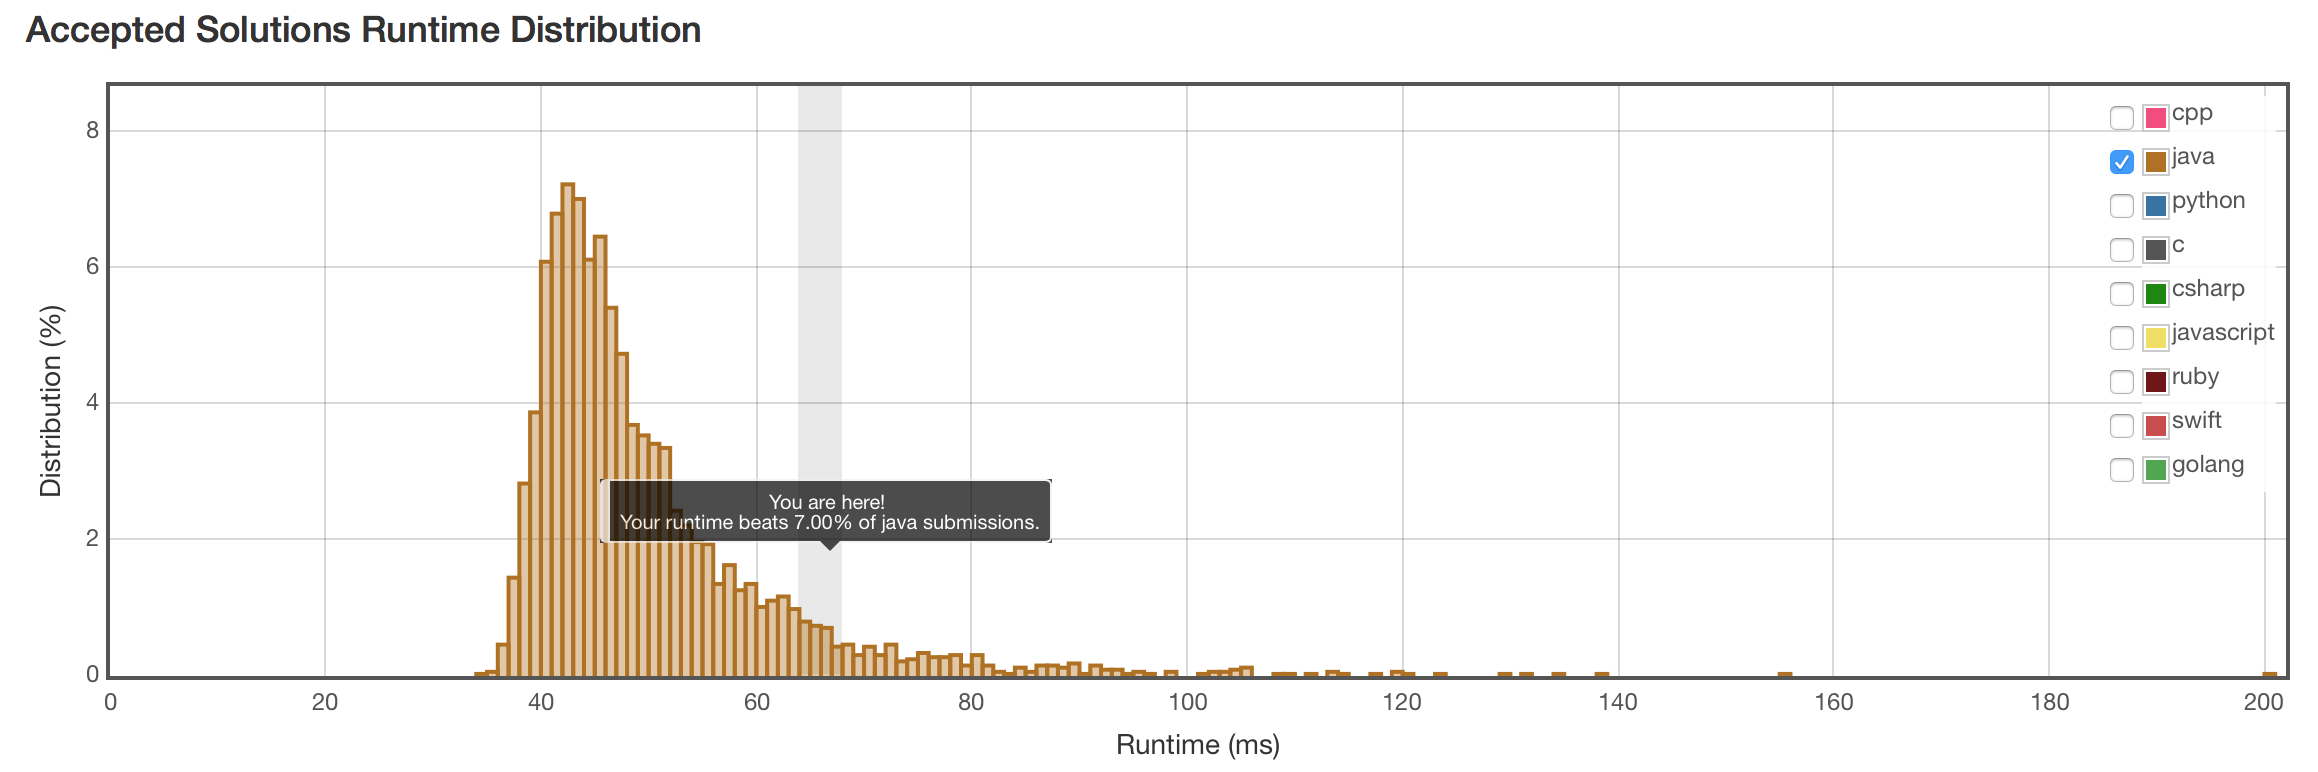
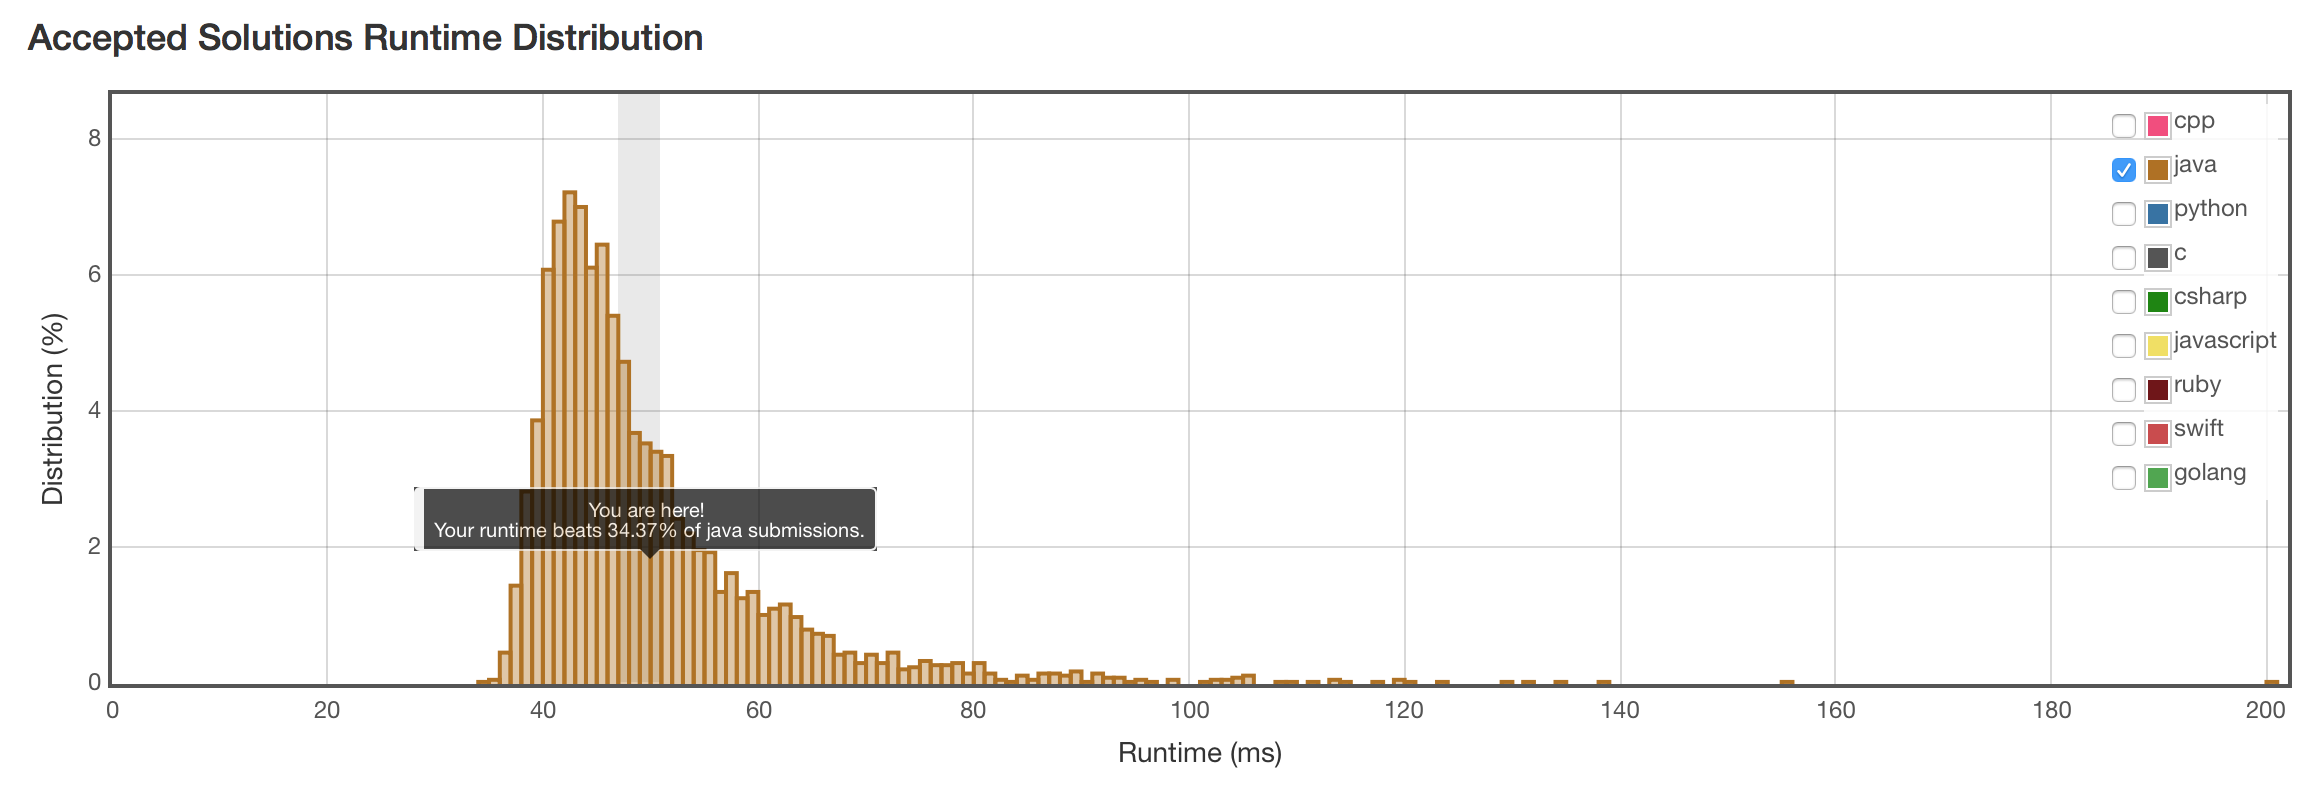
add leetcode posts

diff --git a/_posts/2017-03-22-leetcode-most-water.md b/_posts/2017-03-22-leetcode-most-water.md
@@ -1,0 +1,110 @@
+---
+layout: post
+title: "Leetcode - Algorithm - Container with Most Water"
+date: 2017-03-22 22:20:03
+author: "Wei SHEN"
+categories: ["algorithm"]
+tags: ["leetcode"]
+level: "medium"
+description: >
+---
+
+### 题目
+![most-water-0](/images/leetcode/most-water-0.png)
+Given n non-negative integers a1, a2, ..., an, where each represents a point at coordinate (i, ai). n vertical lines are drawn such that the two endpoints of line i is at (i, ai) and (i, 0). Find two lines, which together with x-axis forms a container, such that the container contains the most water.
+
+Note: You may not slant the container and n is at least 2.
+
+### 暴力遍历 O(n^2)
+这种题最无脑的总是可以暴力遍历所有情况，计算面积，然后维护一个最大面积值。但`O(n^2)`的复杂度，效率很低。
+
+#### 代码
+```java
+public class Solution {
+    public int maxArea(int[] height) {
+        int max = 0;
+        for (int i = 0; i < height.length - 1; i++) {
+            for (int j = i + 1; j < height.length; j++) {
+                int area = (j-i) * Math.min(height[i],height[j]);
+                max = Math.max(max,area);
+            }
+        }
+        return max;
+    }
+}
+```
+
+#### 结果
+不出所料，算法是对的，但超时了。
+![most-water-1](/images/leetcode/most-water-1.png)
+
+### 我自己的O(nlogn)算法
+![most-water-4](/images/leetcode/most-water-4.png)
+如上图，通过观察，我发现，可以先计算最长的两条线段构成的面积，然后再加入短一点的线段，高度小了，但宽度可能大了。算出面积并比较面积大小，维护一个最大面积。有点类似动态规划。复杂度应该是`O(n)`。但因为做之前需要先排序所以总体复杂度`O(nlogn)`。而且是线段长度和它的下标组成一组数据，用`Map.Entry`来装，影响了效率。
+
+#### 代码
+```java
+import java.util.*;
+
+public class Solution {
+    public static int maxArea(int[] height) {
+        List<Map.Entry<Integer,Integer>> list = new ArrayList<>();
+        for (int i = 0; i < height.length; i++) {
+            list.add(new AbstractMap.SimpleEntry<Integer,Integer>(i,height[i]));
+        }
+        list.sort(new Comparator<Map.Entry<Integer,Integer>>() {
+            public int compare(Map.Entry<Integer,Integer> entry1, Map.Entry<Integer,Integer> entry2) {
+                return Integer.compare(entry2.getValue(),entry1.getValue());
+            }
+        });
+        int theHeight = list.get(1).getValue();
+        int num1 = list.get(0).getKey();
+        int num2 = list.get(1).getKey();
+        int[] theRange = new int[]{Math.min(num1,num2), Math.max(num1,num2)};
+        int maxArea = theHeight * (theRange[1] - theRange[0]);
+        for (int i = 2; i < list.size(); i++) {
+            theHeight = list.get(i).getValue();
+            int newRange = list.get(i).getKey();
+            theRange[0] = Math.min(theRange[0],newRange);
+            theRange[1] = Math.max(theRange[1],newRange);
+            int newArea = theHeight * (theRange[1] - theRange[0]);
+            maxArea = Math.max(maxArea,newArea);
+        }
+        return maxArea;
+    }
+}
+```
+
+#### 结果
+狗屎运，恰巧通过。
+![most-water-2](/images/leetcode/most-water-2.png)
+
+
+### 最优算法 O(n)
+其实第二种方法动态规划的思路是对了。但不用先排序，然后从最长的开始计算。可以先计算相距最远的两个线段盛水的面积。哪边线段短，就往前推进一格。直到两条线段重合。Leetcode上对其的解释如下：
+> In this problem, the smart scan way is to set two pointers initialized at both ends of the array. Every time move the smaller value pointer to inner array. Then after the two pointers meet, all possible max cases have been scanned and the max situation is 100% reached somewhere in the scan.
+
+
+#### 代码
+```java
+import java.util.*;
+
+public class Solution {
+    public int maxArea(int[] height) {
+        int left = 0, right = height.length-1, maxArea = 0;
+        while (left < right) {
+            maxArea = Math.max(maxArea, Math.min(height[left],height[right]) * (right - left));
+            if (height[left] <= height[right]) {
+                left++;
+            } else {
+                right--;
+            }
+        }
+        return maxArea;
+    }
+}
+```
+
+#### 结果
+结果不错，基本是最有方案了。
+![most-water-3](/images/leetcode/most-water-3.png)

diff --git a/_posts/2017-03-21-leetcode-string-to-integer.md b/_posts/2017-03-21-leetcode-string-to-integer.md
@@ -4,7 +4,7 @@ title: "Leetcode - Algorithm - String to Integer"
 date: 2017-03-21 22:34:25
 author: "Wei SHEN"
 categories: ["algorithm"]
-tags: ["leetcode","string","int"]
+tags: ["leetcode","string","integer"]
 level: "medium"
 description: >
 ---
@@ -38,7 +38,7 @@ If no valid conversion could be performed, a zero value is returned. If the corr
 import java.util.regex.*;
 
 public class Solution {
-    private static final Pattern P = Pattern.compile("^[+-]?[0-9]+$");
+    private static final Pattern P = Pattern.compile("^[\\s]*([+-]?[0-9]+).*$");
     private static final Map<Character,Integer> DICTIONARY = new HashMap<>();
     static {
         DICTIONARY.put('0',0);
@@ -53,14 +53,11 @@ public class Solution {
         DICTIONARY.put('9',9);
     }
     public int myAtoi(String str) {
-        if (str == null || str.isEmpty()) { // 格式不对
-            throw new NumberFormatException("String cannot be empty!");
-        }
+        if (str == null || str.isEmpty()) { return 0; }
         Matcher m = P.matcher(str);
-        if (!m.find()) { // 格式不对
-            throw new NumberFormatException("Format not accepted!");
-        }
-        char[] chars = str.toCharArray();
+        if (!m.find()) { return 0; }
+
+        char[] chars = m.group(1).toCharArray();
         int head = (chars[0] == '+' || chars[0] == '-')? 1:0;
         int signum = (chars[0] == '-')? -1:1;
         long result = 0l;
@@ -68,12 +65,8 @@ public class Solution {
         long min = (long)Integer.MIN_VALUE;
         for (int i = head; i < chars.length; i++) {
             result = (result * 10) + (DICTIONARY.get(chars[i]) * signum);
-            if (result > 0 && result > max) {
-                throw new NumberFormatException("Too big!");
-            }
-            if (result < 0 && result < min) {
-                throw new NumberFormatException("Too small!");
-            }
+            if (result > 0 && result > max) { return Integer.MAX_VALUE; }
+            if (result < 0 && result < min) { return Integer.MIN_VALUE; }
         }
         return (int)result;
     }
@@ -163,18 +156,10 @@ public class Solution {
 public class Solution {
     public int myAtoi(String str) {
         if (str == null || str.isEmpty()) { return 0; }
+        str = str.trim(); // discards whitespace
         char[] chars = str.toCharArray();
-        // discards whitespace
-        int head = 0;
-        while (Character.isWhitespace(chars[head])) {
-            head++;
-        }
-        if (! Character.isDigit(chars[head]) && chars[head] != '+' && chars[head] != '-') {
-            return 0;
-        }
-        // treat sign
-        int signum = 1;
-        if (chars[head] == '+' || chars[head] == '-') {
+        int signum = 1, head = 0;
+        if (chars[head] == '+' || chars[head] == '-') { // treat sign
             if (chars[head] == '-') { signum = -1; }
             head++;
         }
@@ -183,7 +168,7 @@ public class Solution {
         long max = (long)Integer.MAX_VALUE;
         long min = (long)Integer.MIN_VALUE;
         while (head < chars.length && Character.isDigit(chars[head])) {
-            result = (result * 10) + (((int)chars[head++]-'0') * signum); // ascii码中 0=48
+            result = (result * 10) + (((int)chars[head++]-'0') * signum); // char '0' = int 48, in ascii
             if (result > 0 && result > max) { result = max; break; }
             if (result < 0 && result < min) { result = min; break; }
         }

diff --git a/_posts/2017-03-22-leetcode-palindrome-number.md b/_posts/2017-03-22-leetcode-palindrome-number.md
@@ -1,0 +1,89 @@
+---
+layout: post
+title: "Leetcode - Algorithm - Palindrome Number"
+date: 2017-03-22 13:27:59
+author: "Wei SHEN"
+categories: ["algorithm"]
+tags: ["leetcode","integer"]
+level: "easy"
+description: >
+---
+
+### 题目
+Determine whether an integer is a palindrome. Do this without extra space.
+
+**Some hints**:
+Could negative integers be palindromes? (ie, -1)
+
+If you are thinking of converting the integer to string, note the restriction of using extra space.
+
+You could also try reversing an integer. However, if you have solved the problem "Reverse Integer", you know that the reversed integer might overflow. How would you handle such case?
+
+There is a more generic way of solving this problem.
+
+### 朴素计算法
+这题不许用额外的空间，就是不能转化成`String`再反转。所以通过计算直接逆序排列，然后和原数字比较是否相等。
+
+#### 代码
+```java
+public class Solution {
+    public static boolean isPalindrome(int x) {
+        if (x < 0) { return false; } // negative integer is not palindrome
+        long orig = x, reverse = 0;
+        while (x != 0) {
+            reverse = reverse * 10 + (x % 10);
+            x = x /10;
+        }
+        return orig == reverse;
+    }
+}
+```
+
+#### 结果
+![palindrome-number-1](/images/leetcode/palindrome-number-1.png)
+
+### 只遍历一半数字
+基本思路一样，把数字逆序排列，和原数字比较。但其实只需要逆序排列一半数字，就可以和原数字比较是否相等。需要注意的问题是，`10`,`100`,`1000`这样以`0`结尾的数字，会出bug。所以一开始就把这种情况排除出去。
+
+#### 代码
+```java
+public class Solution {
+    public boolean isPalindrome(int x) {
+        if (x < 0 || (x!= 0 && x%10 == 0)) { return false; }
+        long orig = x, rev = 0;
+        while (x != 0) {
+            int rmd = x % 10;
+            x = x/10;
+            if (x == rev) { return true; }
+            rev = rev * 10 + rmd;
+            if (x == rev) { return true; }
+            if (rev > x) { return false; }
+        }
+        return true; // x = 0
+    }
+}
+```
+
+#### 结果
+![palindrome-number-2](/images/leetcode/palindrome-number-2.png)
+
+### 第二种解法，更简洁的代码
+第二种方法，可以写得更简短。但代码是简短了，可读性不太好。
+
+#### 代码
+```java
+public class Solution {
+    public boolean isPalindrome(int x) {
+        if (x < 0 || (x != 0 && x % 10 == 0)) { return false; }
+        int rev = 0;
+        while (rev < x) {
+            rev = rev * 10 + x % 10;
+            x = x/10;
+        }
+        return (x == rev || x == rev/10);
+    }
+}
+```
+
+#### 结果
+![palindrome-number-3](/images/leetcode/palindrome-number-3.png)

diff --git a/_posts/2017-03-21-leetcode-reverse-integer.md b/_posts/2017-03-21-leetcode-reverse-integer.md
@@ -4,7 +4,7 @@ title: "Leetcode - Algorithm - Reverse Integer"
 date: 2017-03-21 01:40:56
 author: "Wei SHEN"
 categories: ["algorithm"]
-tags: ["leetcode","primitive type"]
+tags: ["leetcode","integer"]
 level: "easy"
 description: >
 ---

diff --git a/_posts/2017-03-21-intPriceple.md b/_posts/2017-03-21-intPriceple.md
@@ -4,7 +4,7 @@ title: "How int works in Java?"
 date: 2017-03-21 00:43:23
 author: "Wei SHEN"
 categories: ["java"]
-tags: ["int"]
+tags: ["integer"]
 description: >
 ---
 
